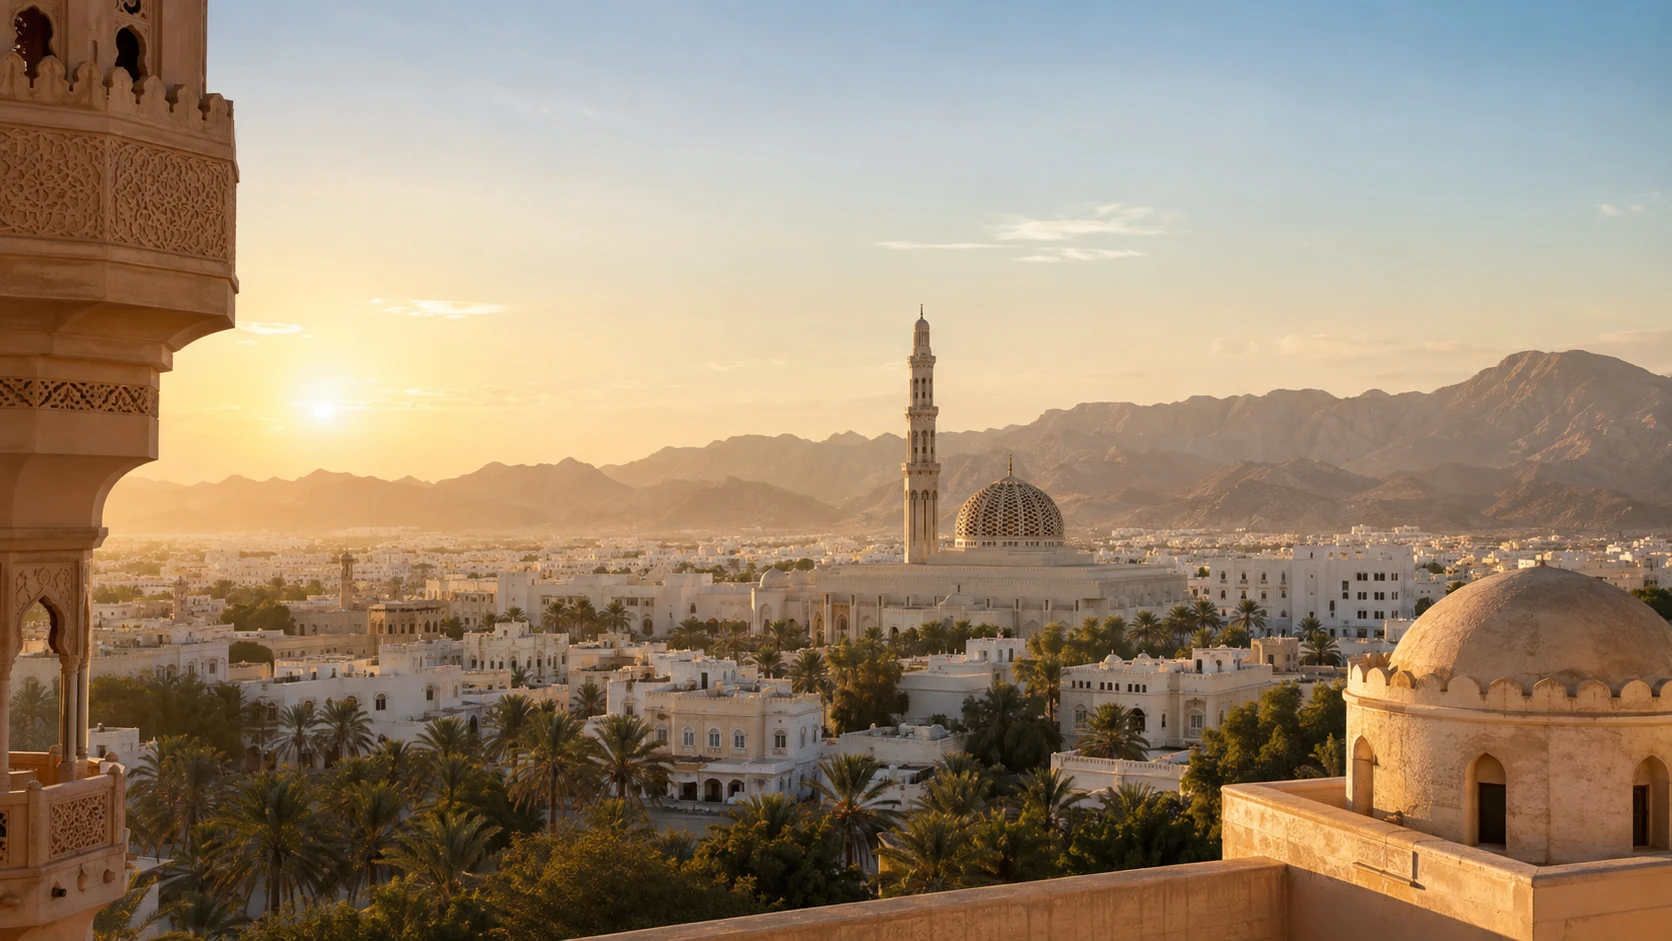
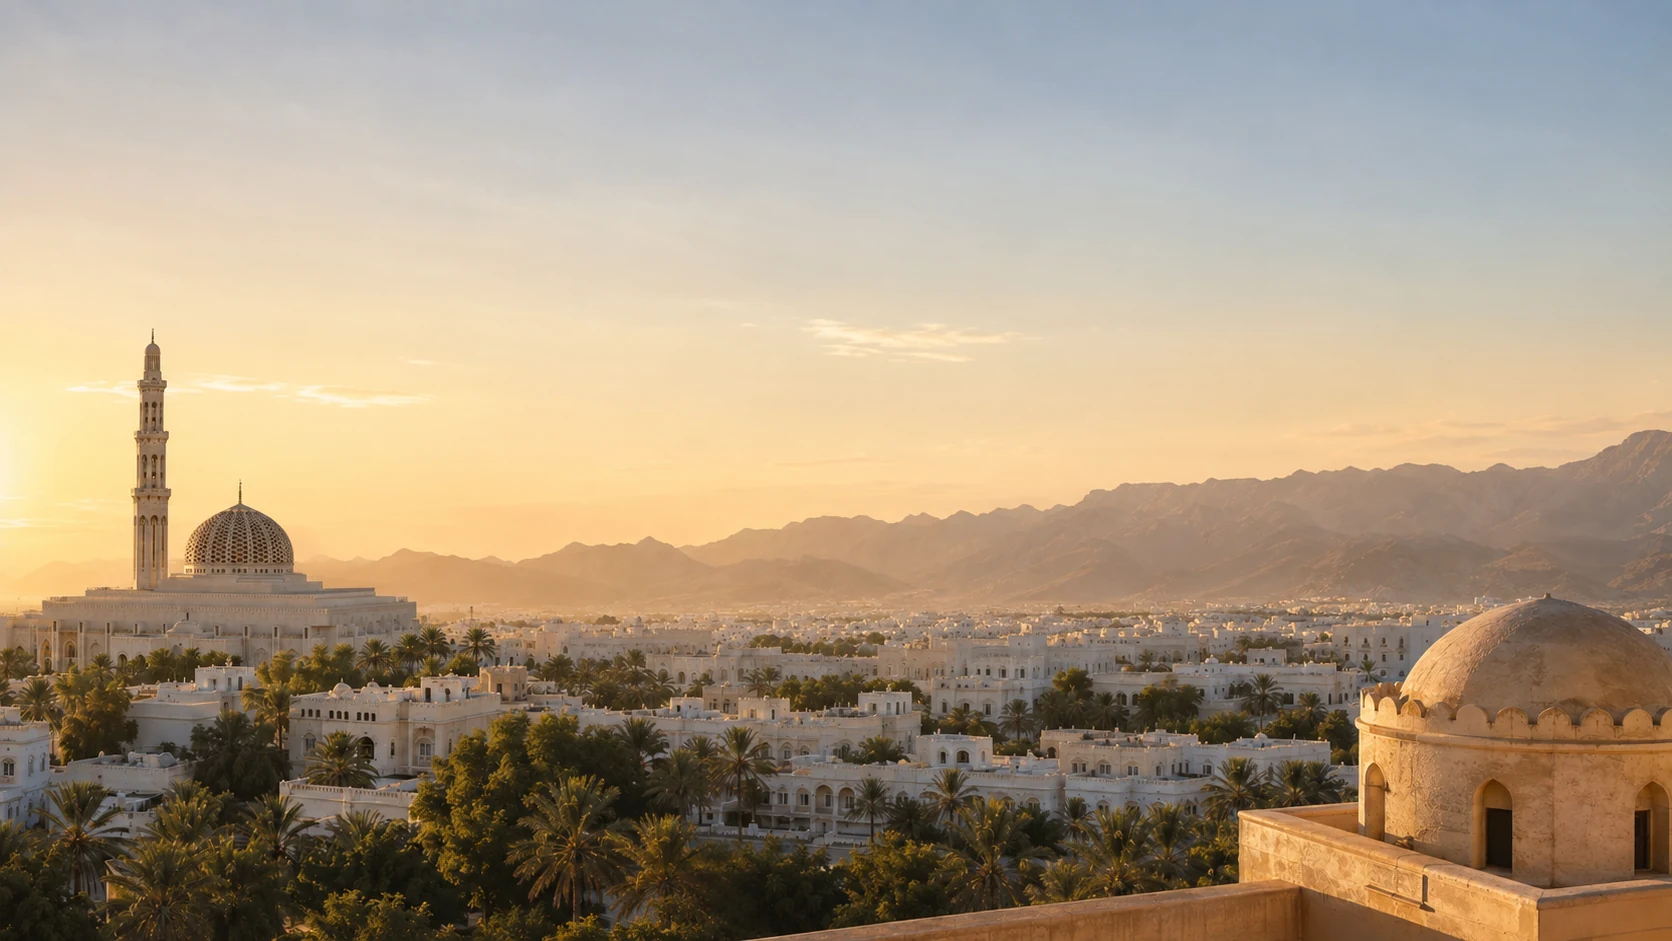
A reframed Muscat hero, and a body that expects the theme script
Pending working-tree changes carried in alongside the call-to-action work, not
authored as part of it: the Muscat Moments photograph swapped for a reframed
crop, and suppressHydrationWarning on body so the pre-paint theme script stops
tripping the hydration check. The matching object-[8%_center] for that slide
rode in with the previous commit, where it could not be split from the hero
button change in the same file.

diff --git a/src/app/[locale]/layout.tsx b/src/app/[locale]/layout.tsx
@@ -70,7 +70,7 @@ export default async function LocaleLayout({ children, params }: Props) {
       className={`${outfit.variable} ${plexArabic.variable} antialiased`}
       suppressHydrationWarning
     >
-      <body className="relative min-h-[100dvh]">
+      <body className="relative min-h-[100dvh]" suppressHydrationWarning>
         {/* Light is the default; an explicit visitor choice is restored before the page paints. */}
         <script
           dangerouslySetInnerHTML={{
